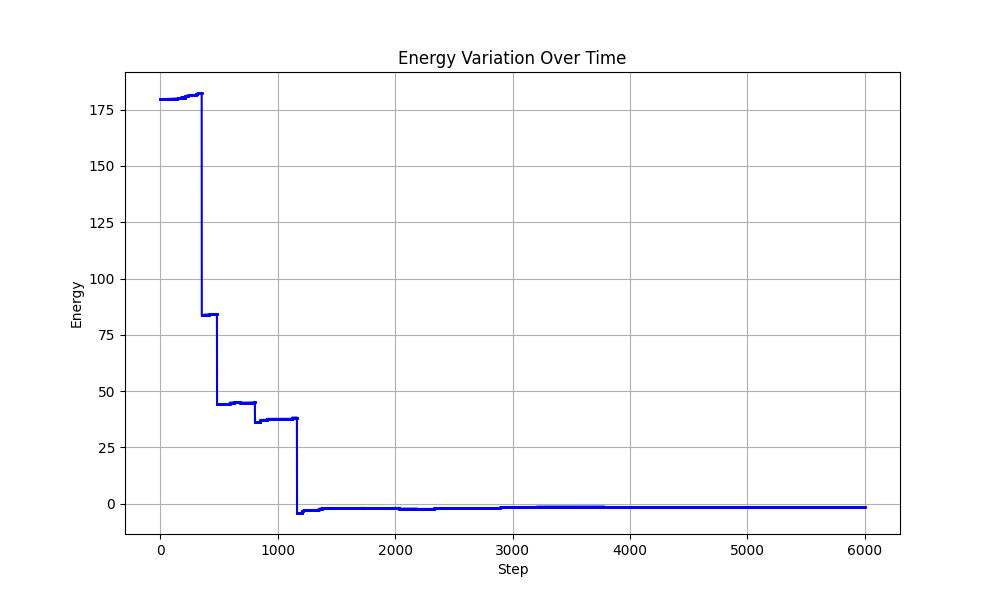
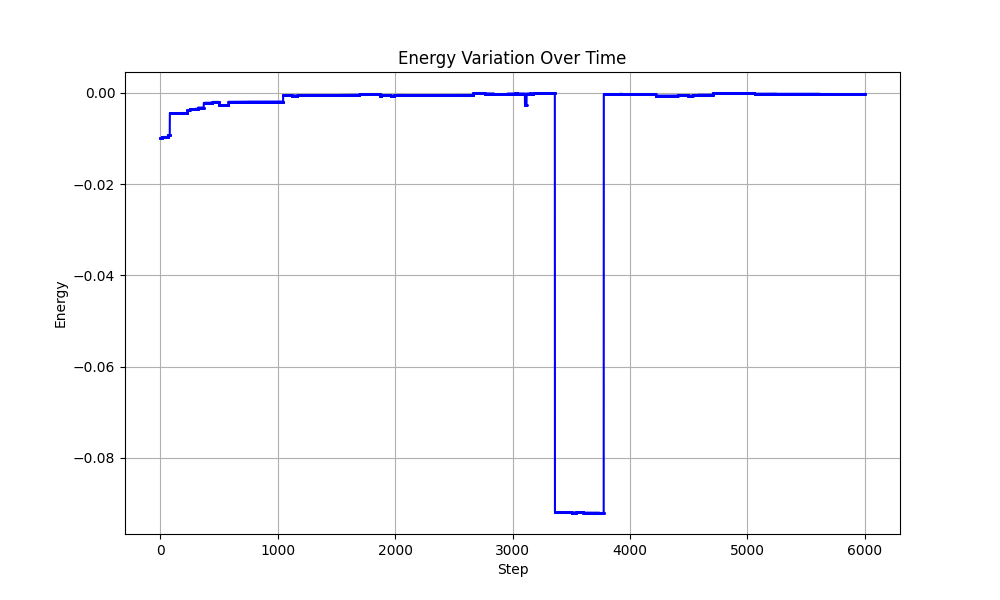
plotting a sphere

diff --git a/run_simulation.py b/run_simulation.py
@@ -18,7 +18,7 @@ def main():
     sim = Simulation(container, N
         , step_size=0.2
         , stop_condition='max_steps_6K'
-        , init_pressure=0.2
+        , init_pressure=0.5
         )
     sim.start()
 
